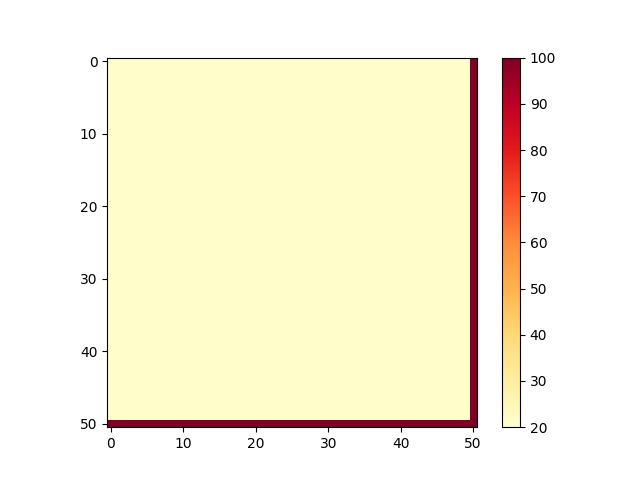
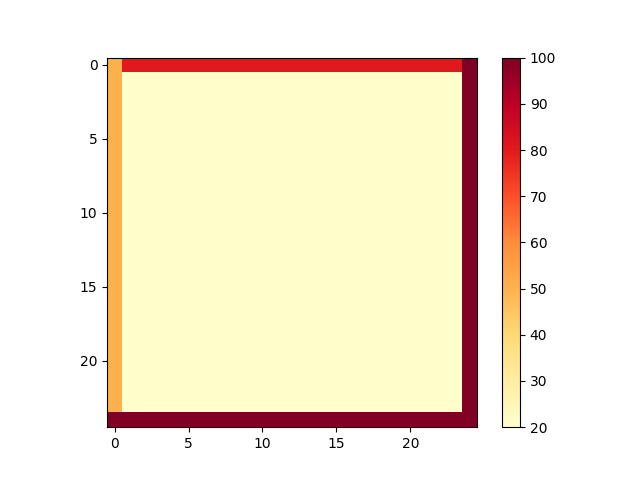
Correção de condições

diff --git a/Trabalho 3/source/p2DHeat.py b/Trabalho 3/source/p2DHeat.py
@@ -44,6 +44,16 @@ def show_parameters():
     print("Número de passos de tempo: ", nsteps)
 
 def set_outer_boundaries(Temp):
+    # Aresta esquerda:
+    for i in range(0, N-1):
+        j = 0
+        Temp[i, j] = (1/3)*(4*Temp[i, j+1] - Temp[i, j+2])
+    
+    # Aresta inferior:
+    for j in range(1, N-1):
+        i = 0
+        Temp[i, j] = (1/3)*(4*Temp[i+1, j] - Temp[i+2, j])
+
     # Aresta superior:
     for i in range (0, N):
         j = N-1
@@ -54,15 +64,6 @@ def set_outer_boundaries(Temp):
         i = N-1
         Temp[i, j] = T1
         
-    # Aresta esquerda:
-    for i in range(1, N-2):
-        j = 0
-        Temp[i, j] = (1/3)*(4*Temp[i+1, j] - Temp[i+2, j])
-    
-    # Aresta inferior:
-    for j in range(1, N-3):
-        i = 0
-        Temp[i, j] = (1/3)*(4*Temp[i, j+1] - Temp[i, j+2])
 
 
 
@@ -75,12 +76,12 @@ def solve_explicitly(Temp):
         # impomos as condições nos contornos externos:
         set_outer_boundaries(Temp)
 
-        # Iteração em x (de 1 a N-2):
-        for i in range (0, N-1):
+        # Iteração em x, de 1 a N-2:
+        for i in range (1, N-1):
 
             # Iteração em y (de 1 a N-2):
-            for j in range (0, N-1):
-               Temp[i, j] -= 0.0
+            for j in range (1, N-1):
+               Temp[i, j] = 0.0
         # Próximo passo de tempo
         t_current = t_current + dt
 
